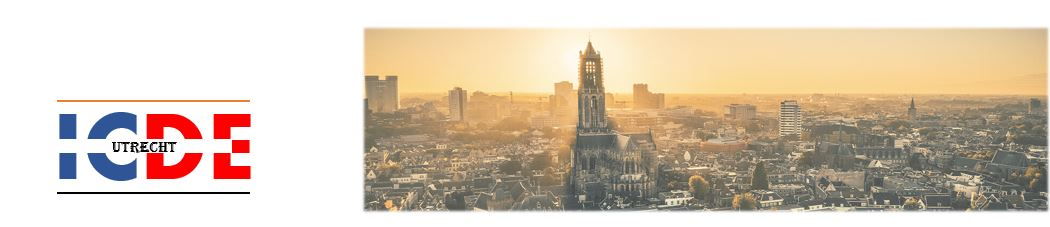
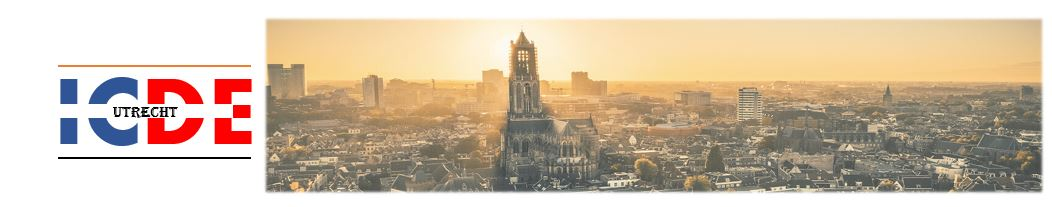
changes to the header

diff --git a/2024/conference_officers.html b/2024/conference_officers.html
@@ -33,7 +33,7 @@
 <table width="1040" height="120" border="0" align="left" cellpadding="0" cellspacing="0" bordercolor="#CCCCCC">
 
 <tr>
-<td  align="left" valign="middle" colspan=2> <img src="images/icdelogo2024.jpg" alt="ICDE2024 Logo,  Design by enas"></td>		
+<td  align="left" valign="middle" colspan=2> <img src="images/utrecht_header.JPG" alt="ICDE2024 Logo,  Design by enas"></td>		
 </tr>
 <tr>
 <td width="280"></td><td valign="bottom"><hr /></td>
@@ -54,7 +54,6 @@
 <h2>General Information</h2>
 <ul><li><a href="index.html">Conference Overview</a></li>
 <li><a href="conference_officers.html">Conference Officers</a></li>
-<li><a href="review_board.html">PVLDB Review Board</a></li>
 <li><a href="industrial_track_committee.html">Industrial Track Committee</a></li>
 <li><a href="reproducibility_committee.html">Reproducibility Committee</a></li>
 </ul>

diff --git a/2024/empty.html b/2024/empty.html
@@ -48,7 +48,7 @@
 <table width="1040" height="120" border="0" align="left" cellpadding="0" cellspacing="0" bordercolor="#CCCCCC">
 
 <tr>
-<td  align="left" valign="middle" colspan=2> <img src="images/icdelogo2024.jpg" alt="ICDE2024 Logo,  Design by enas"></td>		
+<td  align="left" valign="middle" colspan=2> <img src="images/utrecht_header.JPG" alt="ICDE2024 Logo,  Design by enas"></td>		
 </tr>
 <tr>
 <td width="280"></td><td valign="bottom"><hr /></td>
